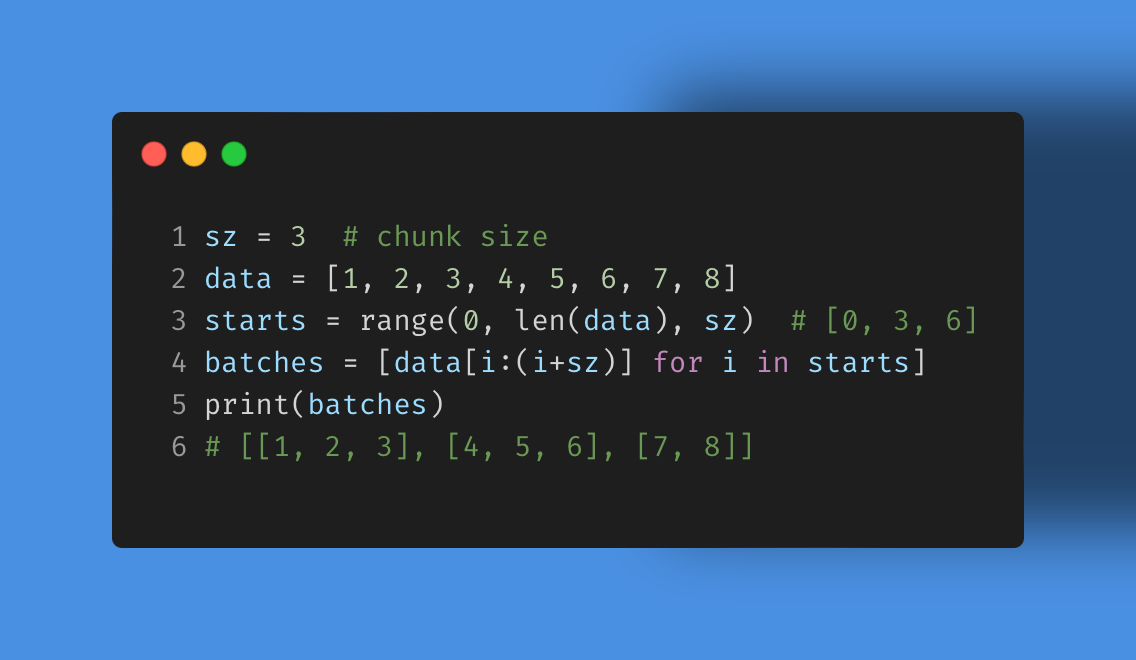
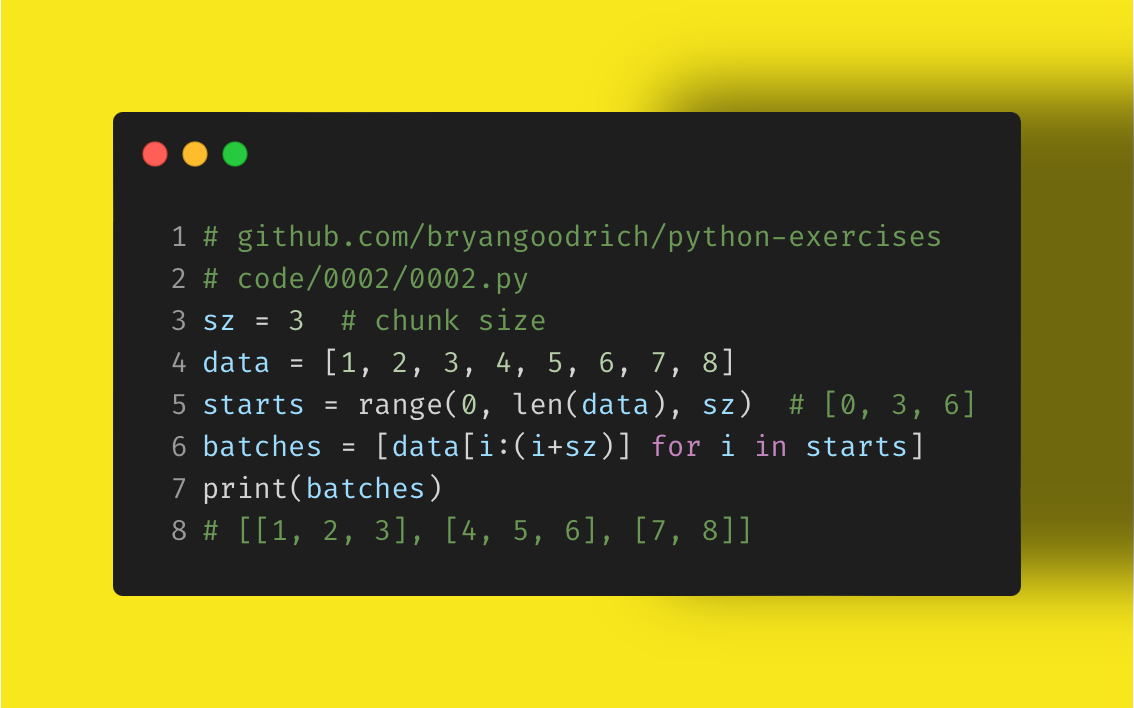
Fix initial releases

diff --git a/code/0013/0013.py b/code/0013/0013.py
@@ -17,7 +17,7 @@ import time
 def main(args):
     parser = argparse.ArgumentParser(description='Load a job module to run.')
     parser.add_argument('--job', '-j', type=str, help='Name of the job module.')
-    args = parser.parse_args(sys.argv[1:])
+    args = parser.parse_args(args)
     if not args.job:
         parser.error('Please provide a module name using --job or -j.')
 
@@ -28,7 +28,7 @@ def main(args):
         end_time = time.time()
         print(f'Time taken: {end_time - start_time} seconds')
     except ModuleNotFoundError:
-        print(f"Module '{args.job}' not found in the 'package'.")
+        print(f"Module '{args.job}' not found in the 'packit'.")
 
 if __name__ == "__main__":
     args = sys.argv[1:]

diff --git a/code/0005/0005.py b/code/0005/0005.py
@@ -1,3 +1,6 @@
+# github.com/bryangoodrich/python-exercises
+# code/0005/0005.py
+
 import pandas as pd
 from statsmodels.formula.api import ols
 

diff --git a/code/0002/0002.py b/code/0002/0002.py
@@ -1,3 +1,4 @@
+# github.com/bryangoodrich/python-exercises
 # code/0002/0002.py
 sz = 3  # chunk size
 data = [1, 2, 3, 4, 5, 6, 7, 8]

diff --git a/code/0001/0001.py b/code/0001/0001.py
@@ -1,3 +1,4 @@
+# github.com/bryangoodrich/python-exercises
 # code/0001/0001.py
 source = "input.txt"
 target = "output.csv"

diff --git a/code/0003/0003.py b/code/0003/0003.py
@@ -1,3 +1,4 @@
+# github.com/bryangoodrich/python-exercises
 # code/0003/0003.py
 import concurrent.futures
 import random

diff --git a/code/0004/0004.py b/code/0004/0004.py
@@ -1,3 +1,4 @@
+# github.com/bryangoodrich/python-exercises
 # code/0004/0004.py
 import random
 import asyncio
